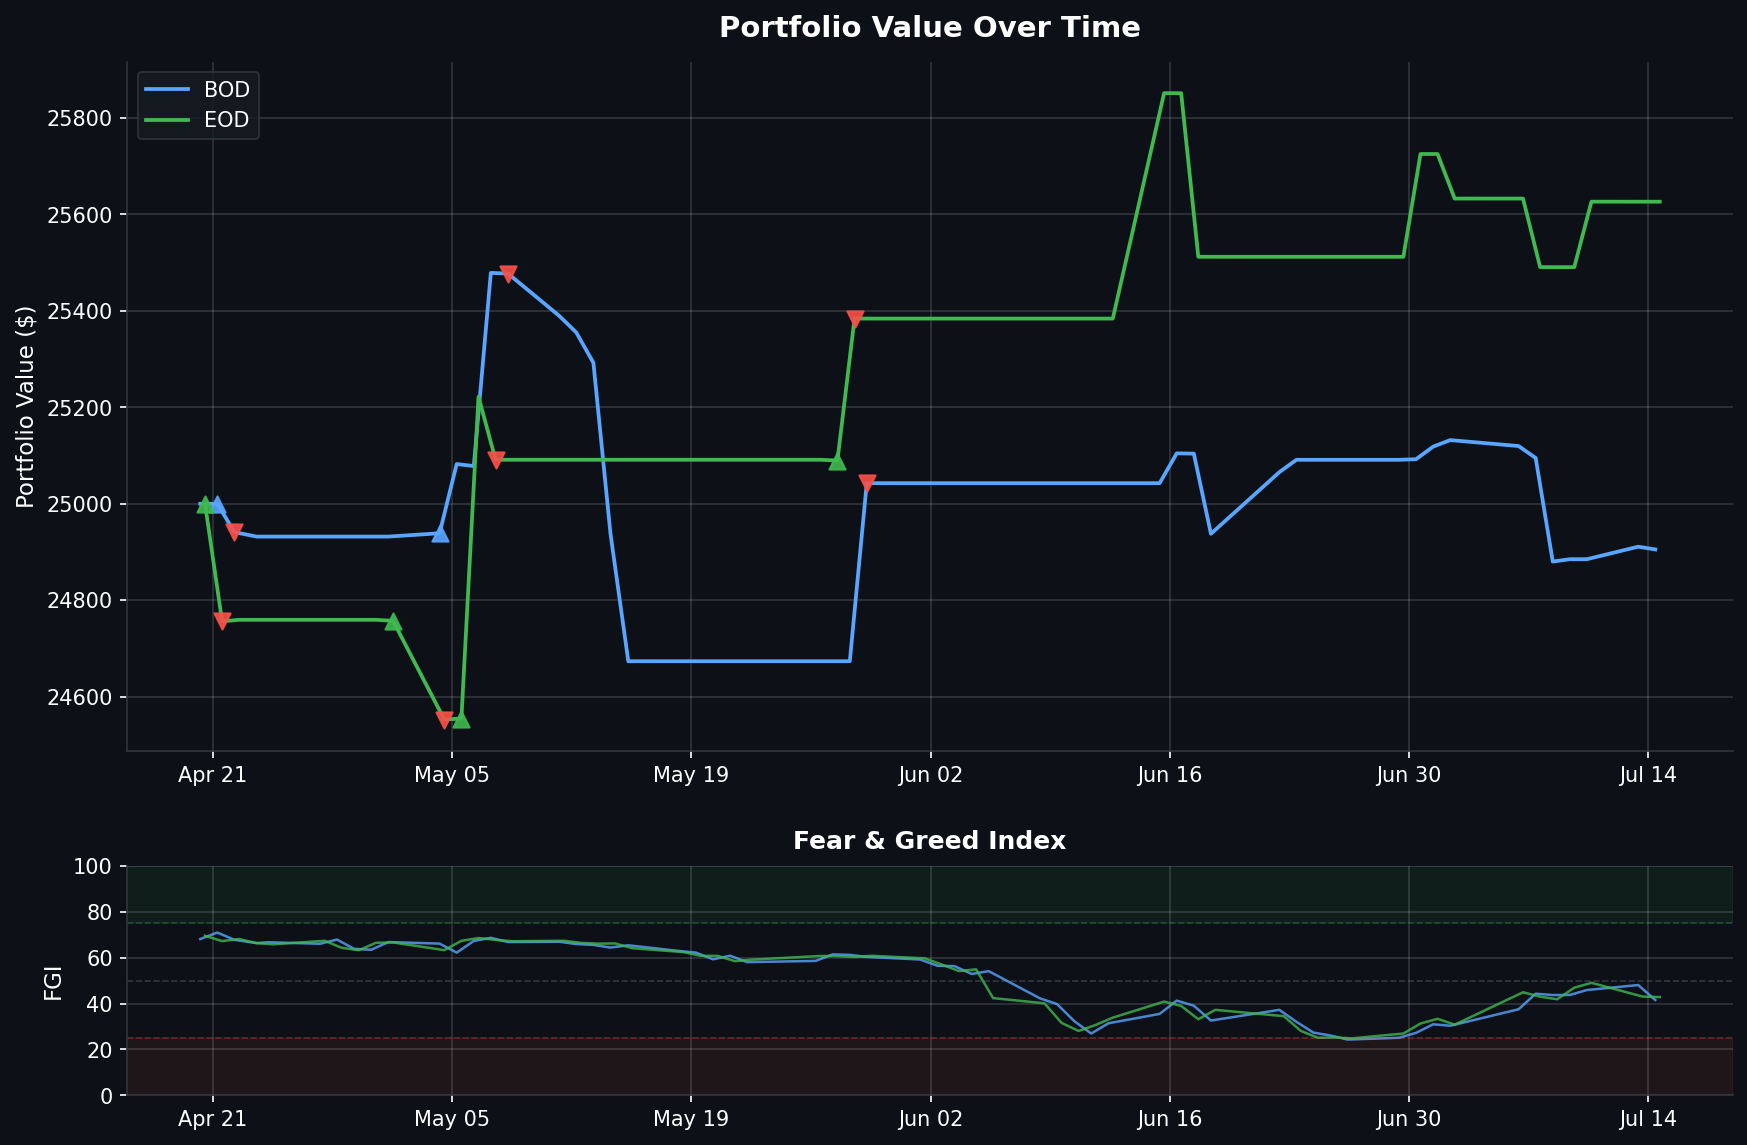
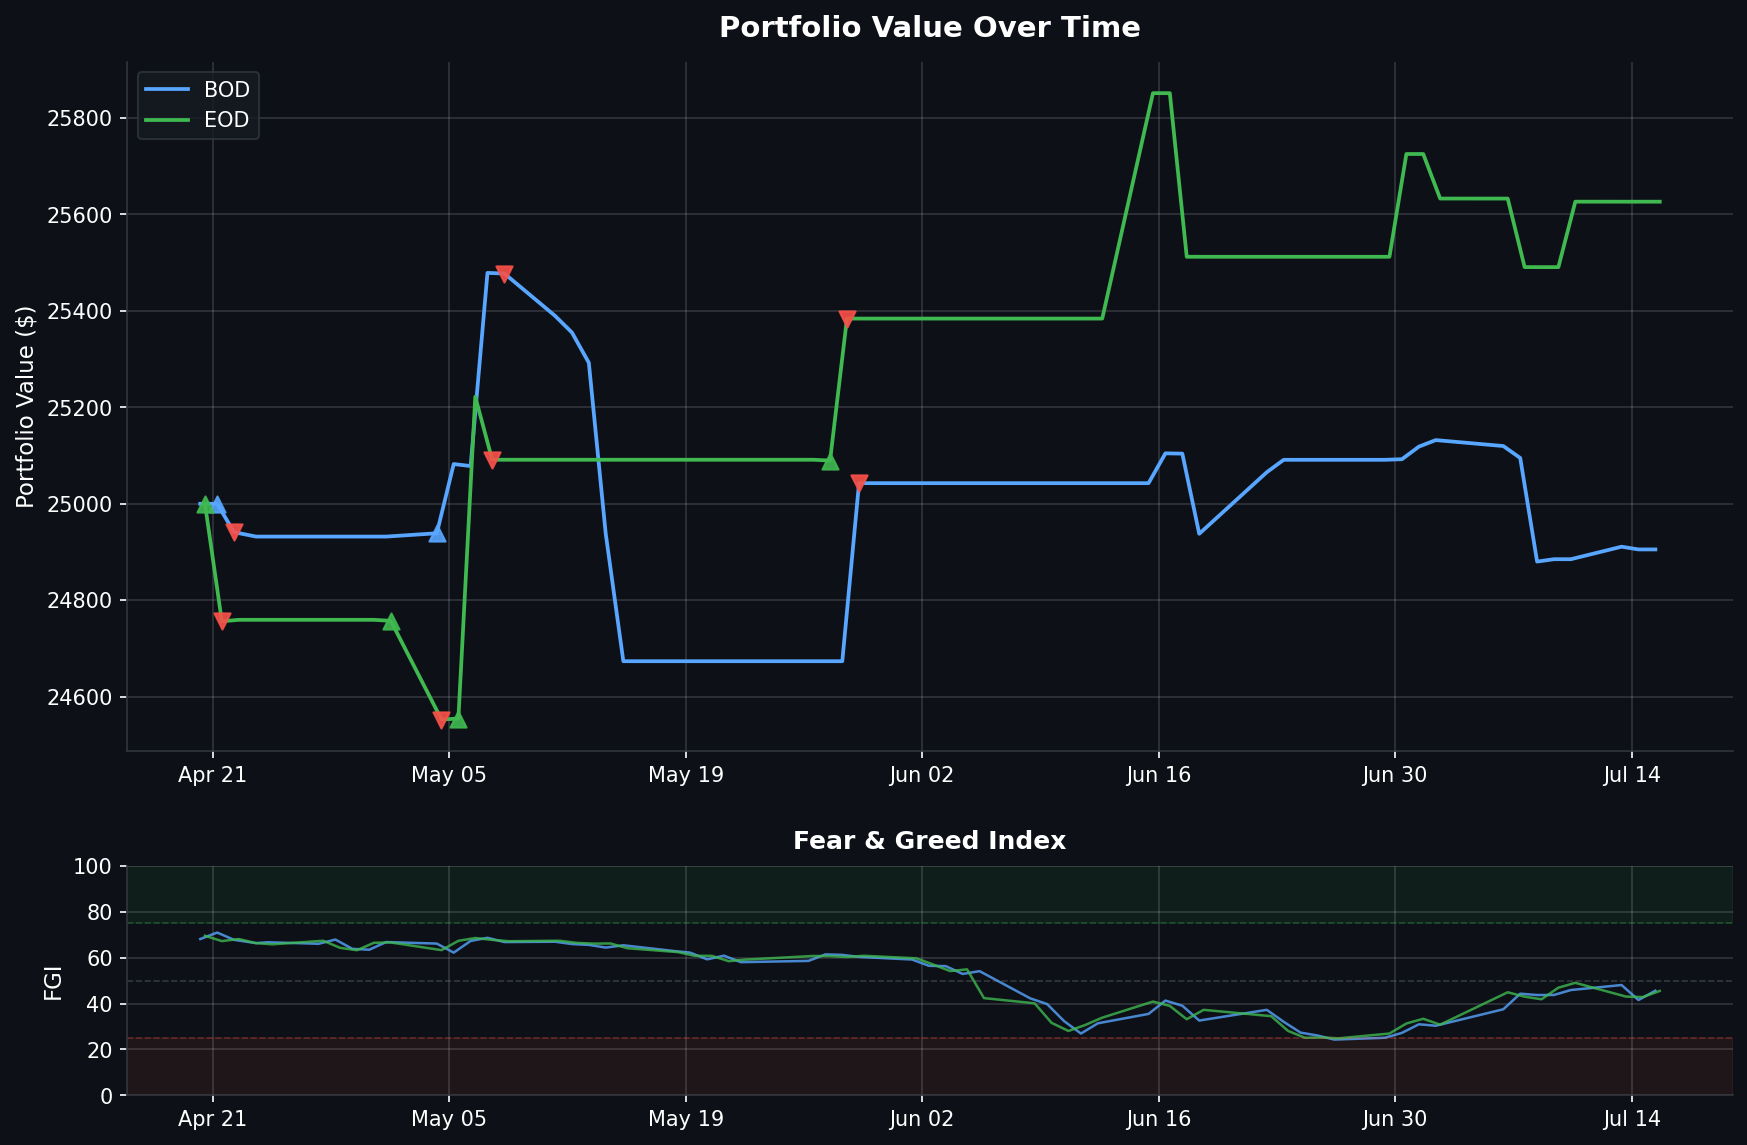
Daily data backup 2026-07-15

diff --git a/README.md b/README.md
@@ -1,6 +1,6 @@
 # Fear & Greed Index Trading Bot
 
-> Dashboard auto-updated daily at market close | Last update: **2026-07-14 13:30 PST**
+> Dashboard auto-updated daily at market close | Last update: **2026-07-15 13:30 PST**
 
 ![Portfolio Performance](assets/portfolio_chart.png)
 
@@ -12,12 +12,12 @@
 |--------|-------|
 | Portfolio Value | **$24,905.41** |
 | Buying Power | $99,621.64 |
-| Current FGI | 41.54 |
+| Current FGI | 45.6 |
 | Position | FLAT |
 | Total P&L | **$+995** |
 | Win Rate | 50% (1W / 1L) |
 | Total Round Trips | 2 |
-| Last Signal | NO_ACTION @ 2026-07-14 09:35 |
+| Last Signal | NO_ACTION @ 2026-07-15 09:35 |
 
 <details>
 <summary>Trade History (2 trades)</summary>
@@ -34,11 +34,11 @@
 
 | Time | Action | Price | FGI | Momentum | Velocity | Volatility | Reason |
 |------|--------|-------|-----|----------|----------|------------|--------|
+| 07-15 09:35 | NO_ACTION | $754.90 | 45.6 | 0.53 | -0.10 | 0.55 | Insufficient momentum/velocity for entry |
 | 07-14 09:35 | NO_ACTION | $749.51 | 41.54 | -3.62 | -0.73 | 0.55 | Insufficient momentum/velocity for entry |
 | 07-13 09:35 | NO_ACTION | $753.58 | 48.06 | 2.16 | 1.45 | 0.55 | SELL incomplete - still holding 32 after 5 attempts |
 | 07-10 09:35 | NO_ACTION | $752.62 | 45.89 | 1.44 | 0.53 | 0.55 | BUY did not fill after 3 attempts |
 | 07-09 09:35 | NO_ACTION | $747.70 | 43.74 | -0.17 | 2.08 | 0.55 | Insufficient momentum/velocity for entry |
-| 07-08 09:35 | NO_ACTION | $743.50 | 43.71 | 1.87 | 4.46 | 0.55 | SELL incomplete - still holding 33 after 5 attempts |
 
 </details>
 
@@ -50,12 +50,12 @@
 |--------|-------|
 | Portfolio Value | **$25,626.48** |
 | Buying Power | $102,505.92 |
-| Current FGI | 42.83 |
+| Current FGI | 45.49 |
 | Position | FLAT |
 | Total P&L | **$+302** |
 | Win Rate | 50% (2W / 2L) |
 | Total Round Trips | 4 |
-| Last Signal | NO_ACTION @ 2026-07-14 15:50 |
+| Last Signal | NO_ACTION @ 2026-07-15 15:50 |
 
 <details>
 <summary>Trade History (4 trades)</summary>
@@ -74,11 +74,11 @@
 
 | Time | Action | Price | FGI | Momentum | Velocity | Volatility | Reason |
 |------|--------|-------|-----|----------|----------|------------|--------|
+| 07-15 15:50 | NO_ACTION | $753.88 | 45.49 | 1.71 | -1.18 | 0.55 | Insufficient momentum/velocity for entry |
 | 07-14 15:50 | NO_ACTION | $752.33 | 42.83 | -2.13 | -1.36 | 0.55 | Insufficient momentum/velocity for entry |
 | 07-13 15:50 | NO_ACTION | $748.86 | 43.03 | -3.29 | 0.39 | 0.55 | Insufficient momentum/velocity for entry |
 | 07-10 15:52 | NO_ACTION | $755.33 | 49.03 | 3.10 | 2.01 | 0.55 | SELL incomplete - still holding 33 after 5 attempts |
 | 07-09 15:50 | NO_ACTION | $751.15 | 46.91 | 2.99 | 0.67 | 0.55 | BUY did not fill after 3 attempts |
-| 07-08 15:50 | NO_ACTION | $744.75 | 41.86 | -1.40 | 3.69 | 0.55 | Insufficient momentum/velocity for entry |
 
 </details>
 
